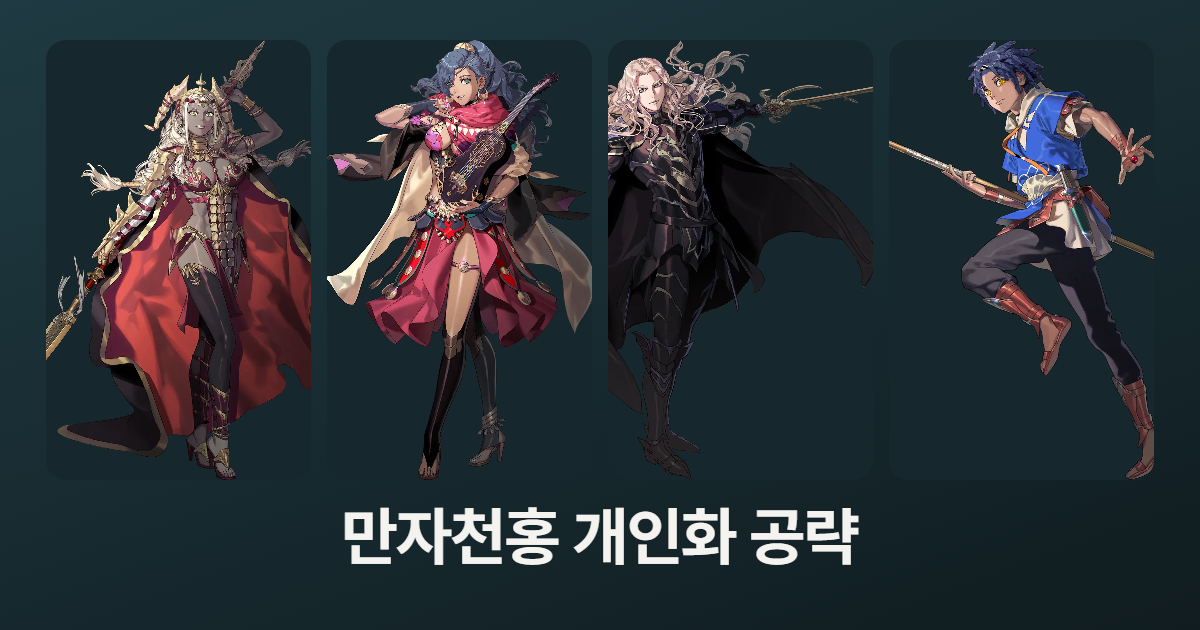
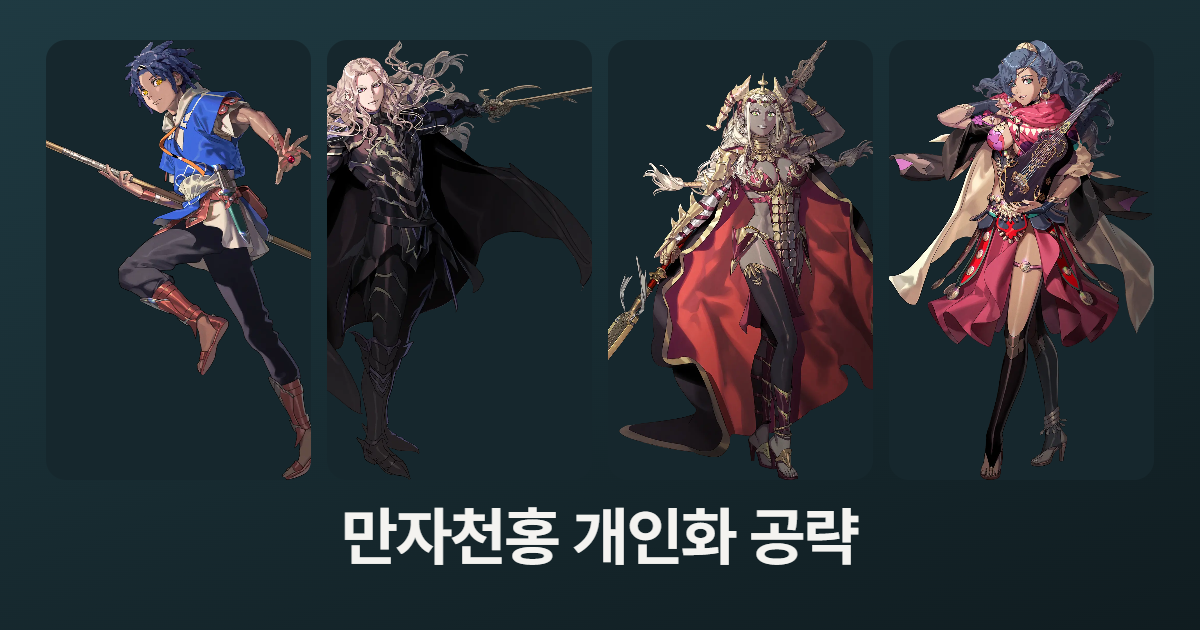
fix: 공유 미리보기 초상화를 오벨리스크 순서로 맞추기

diff --git a/app/layout.tsx b/app/layout.tsx
@@ -9,6 +9,6 @@ const pretendard = localFont({ src: [{ path: '../assets/fonts/Pretendard-Regular
 // yuphas 견본(docs/yuphas-sample-plan.md): 그 사이트처럼 글 전체를 명조로(라틴·숫자는 Nocturne, 한글은 Gowun Batang 400/700).
 const heading = Gowun_Batang({ weight: ['400', '700'], subsets: ['latin'], preload: false, display: 'swap', variable: '--font-heading' });
 // 공유 미리보기는 시간 경과 전 네 주인공만 담은 고정 그림(public/og.png, scripts/make-og-image.mjs). 없으면 미리보기가 페이지의 3부(시간 경과 뒤) 초상화를 집는다(2026-11-14 사용자 지시).
-const share = { url: '/og.png', width: 1200, height: 630, alt: '만자천홍 개인화 공략 · 세오도라·레다·디트리히·카이' };
+const share = { url: '/og.png', width: 1200, height: 630, alt: '만자천홍 개인화 공략 · 카이·디트리히·세오도라·레다' };
 export const metadata: Metadata = { metadataBase: new URL('https://fe-fortunes-weave-guide-megi.netlify.app'), title: '만자천홍 · 나의 공략', description: '루트별로 한 걸음씩 따라가는 개인 공략', openGraph: { type: 'website', siteName: '만자천홍 개인화 공략', title: '만자천홍 · 나의 공략', description: '루트별로 한 걸음씩 따라가는 개인 공략', images: [share] }, twitter: { card: 'summary_large_image', images: [share] } };
 export default function Layout({ children }: Readonly<{ children: React.ReactNode }>) { return <html lang="ko" className="dark"><body className={`${pretendard.variable} ${heading.variable}`}><Themes>{children}</Themes></body></html>; }

diff --git a/docs/user-rules.md b/docs/user-rules.md
@@ -40,7 +40,7 @@
 | U27 | '완료 숨기기'는 고정 머리 안. 오른쪽 아래 둥근 '맨 위로' 단추(그림만, 풍선 도움말) | 11-14 | `scripts/header-browser-check.mjs` `scripts/rules-browser-check.mjs` |
 | U28 | **폐지**: 테마 단추를 두지 않는다(옛 규칙: 테마 단추는 하나, 머리가 붙기 전 오른쪽 위·붙은 뒤 막대 오른쪽 끝) | 11-15(11-14 '머리에 고정'을 대체), 11-27 폐지 → U64 어두운 화면만(사용자 결정) | `scripts/rules-check.mjs` |
 | U29 | 바닥 고정 게임 날짜(YYYY/MM/DD, 가운데, 주행계 움직임). 날짜는 첫 미완료 항목 기준 | 11-14(2안 선택) | `scripts/header-browser-check.mjs` `scripts/verify.mjs` |
-| U30 | 공유 미리보기 그림에 시간 경과 뒤 초상화 금지 | 11-14 | `scripts/rules-check.mjs` |
+| U30 | 공유 미리보기 그림에 시간 경과 뒤 초상화 금지. 초상화 순서는 첫 화면 오벨리스크 순서(카이·디트리히·세오도라·레다) | 11-14, 11-27(사용자 요청: 순서 맞춤) | `scripts/rules-check.mjs` |
 | U31 | "X가 X 위치입니다"·"X(X)" 같은 말 되풀이 금지 | 11-14 | `scripts/verify.mjs` `scripts/rules-check.mjs` |
 | U32 | 루트별 지원 대화: 짝 이름이 세로로 깨지지 않고 한 줄, 인물 거르기 | 11-14 | `scripts/verify.mjs` `scripts/rules-browser-check.mjs` |
 | U33 | '이 장의 인물' 얼굴 아래에도 '루트별 지원 대화' 단추 | 11-14 | `scripts/rules-browser-check.mjs` |
